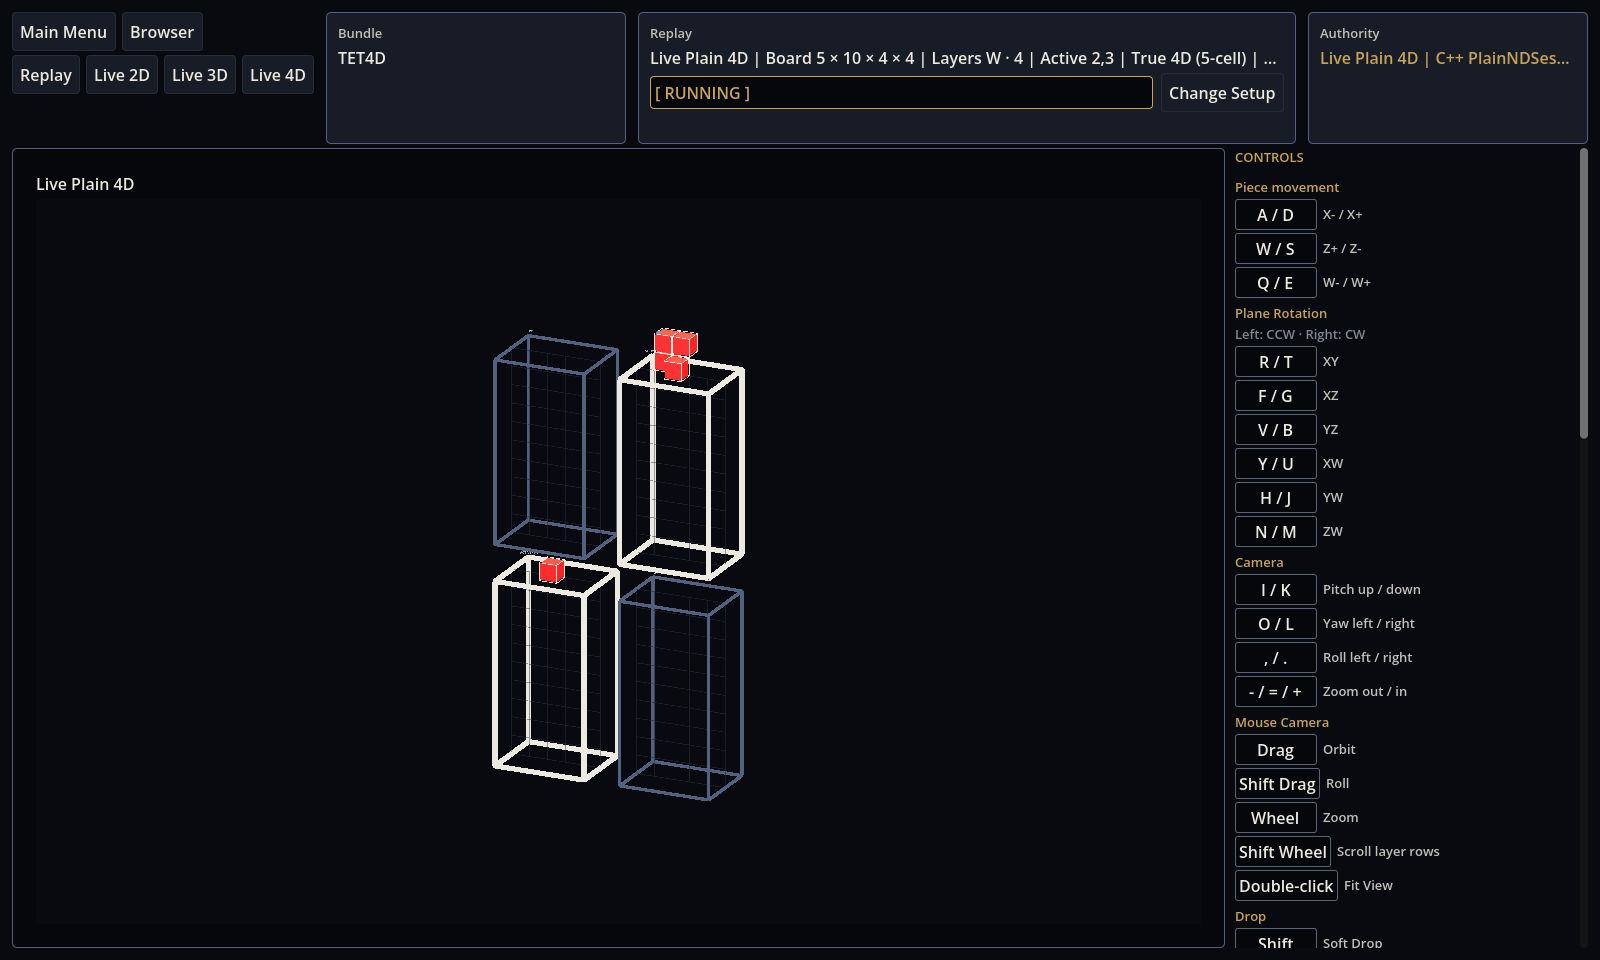
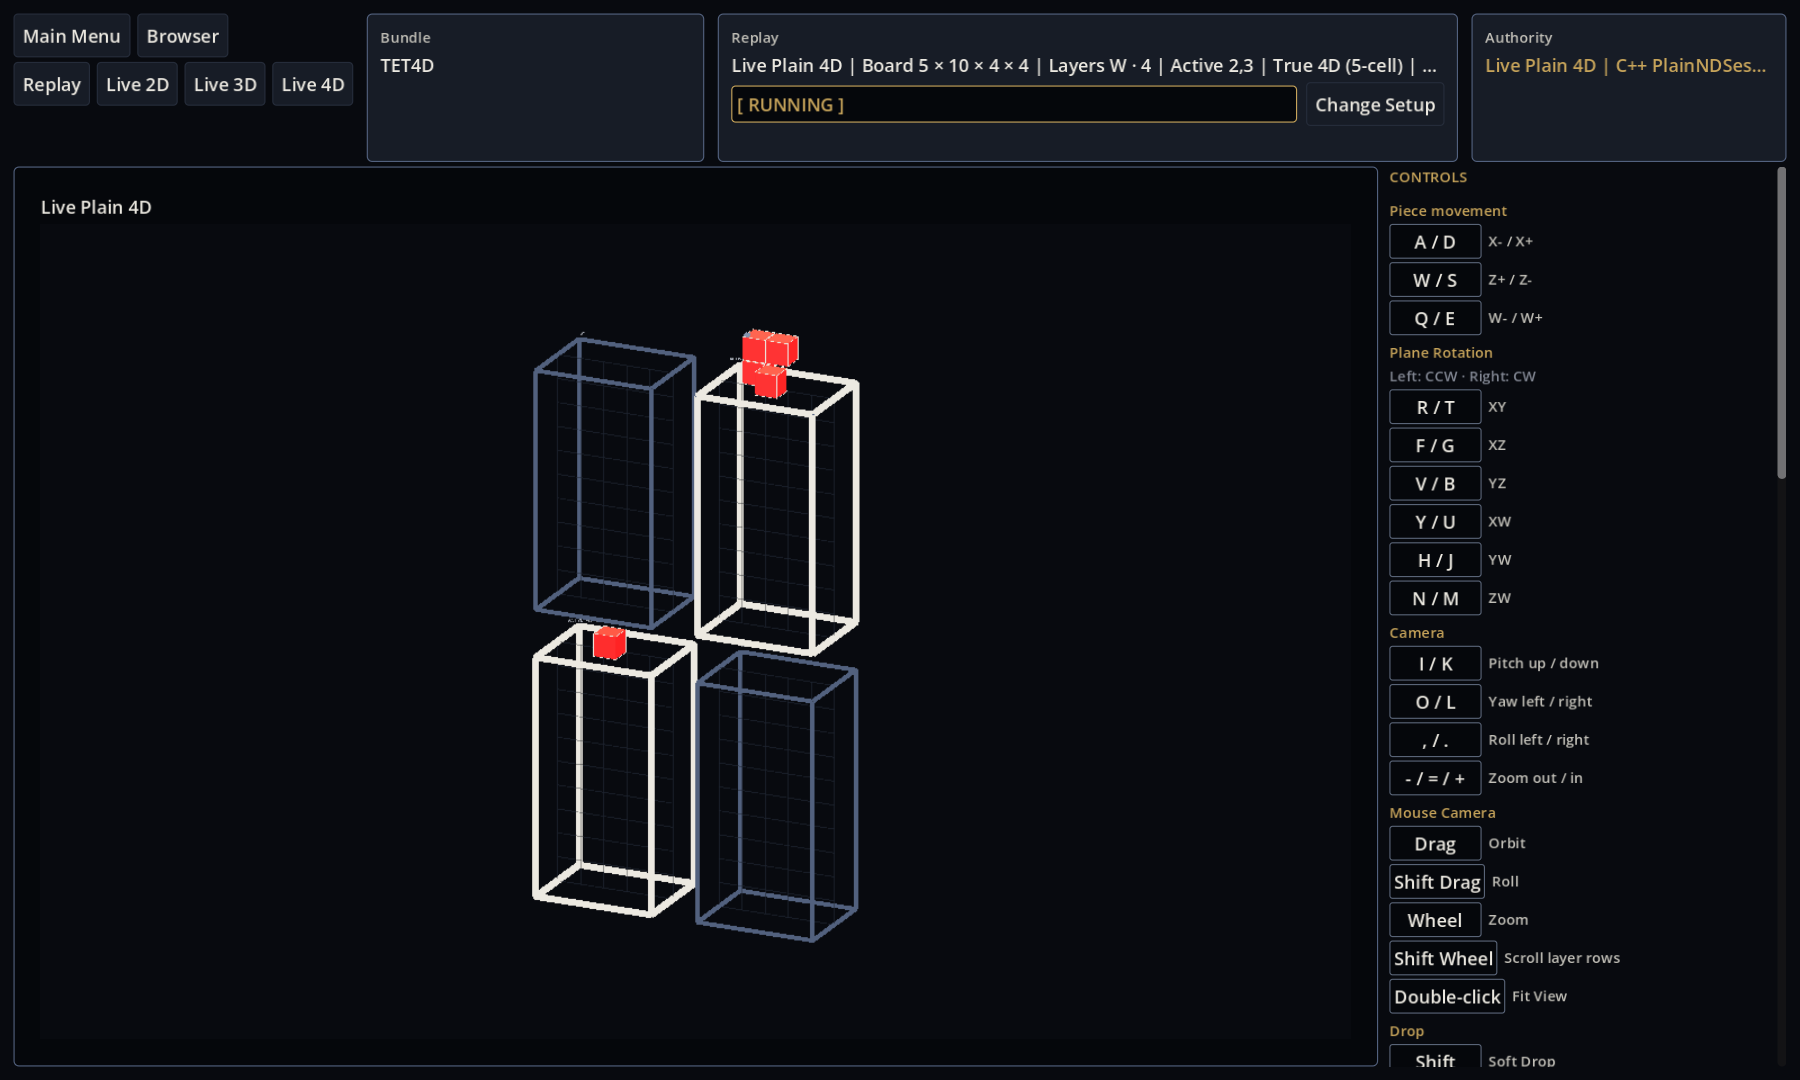
Refine Godot gameplay framing

diff --git a/docs/design/godot_visual_system.md b/docs/design/godot_visual_system.md
@@ -93,6 +93,12 @@ darker and use quieter edges, but adjacent cells must remain individually
 parseable. The Pygame diagrammatic exterior view, clean cube-edge separation,
 and stable W-slice rhythm remain the comparison standard.
 
+In 3D and 4D, active and locked cells retain the same body scale and structural
+wireframe envelope. Locking changes emphasis, not geometry: the wireframe stays
+visibly present in a quieter warm-gray role, and the settled stack must not
+acquire artificial gaps. The default 4D
+fit keeps the complete W-slice matrix visible without making it feel remote.
+
 Main menu, setup, settings, onboarding, replay, live HUD, diagnostics, pause,
 and game-over surfaces all use the same tokens. Diagnostic density may be
 higher, but diagnostic framing must not leak into primary play.

diff --git a/CURRENT_STATE.md b/CURRENT_STATE.md
@@ -30,8 +30,9 @@ history ledger. Detailed history is preserved in
 - Godot visual consolidation is active on
   `codex/godot-visual-design-consolidation`; automated and real-window
   evidence plus explicit human acceptance remain required before merge.
-  Human review accepted the surrounding shell but requested clearer,
-  Python-like gameplay cell-box edges before final visual acceptance.
+  Human review accepted the surrounding shell. Follow-up review requested a
+  larger Quick Settings surface, closer default 4D framing, and persistent
+  equal-size 3D/4D cell and wireframe envelopes after locking.
   Godot topology gameplay and unified Godot
   endgame/topology/explosion integration have not begun.
 

diff --git a/docs/design/screenshots/godot_visual_consolidation/README.md b/docs/design/screenshots/godot_visual_consolidation/README.md
@@ -4,7 +4,9 @@ These captures are the durable human-review baseline for the Godot visual
 system introduced by PR #39. They document the accepted foundation immediately
 before consolidation and the current candidate Instrument system. The live
 2D/3D/4D captures were refreshed after human review requested clearer,
-Python-like cell-box edges.
+Python-like cell-box edges. The locked 3D and 4D captures additionally verify
+that settling preserves the cell body and visible wireframe envelope without
+introducing artificial gaps.
 
 The `before_*` set covers the prior main menu, setup, settings, live 2D, live
 3D, live 4D, and wide-W presentation. The `after_*` set covers equivalent

diff --git a/docs/BACKLOG.md b/docs/BACKLOG.md
@@ -31,6 +31,9 @@ Acceptance:
 - consistent default, diagnostic, and arcade variants;
 - active and locked cell boxes retain crisp, individually parseable edges at
   2D, 3D, 4D, and wide-W overview scales;
+- Quick Settings remains comfortably readable, default 4D framing is close
+  enough for inspection, and locking a 3D/4D piece preserves its cell body and
+  wireframe envelope without introducing visual gaps;
 - accessibility, scaling, focus, scrolling, and input isolation preserved;
 - deterministic gameplay/parity state unchanged;
 - real-window before/after evidence is attached to the PR;
